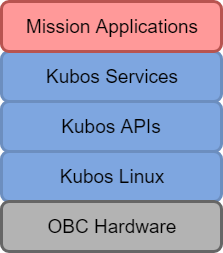
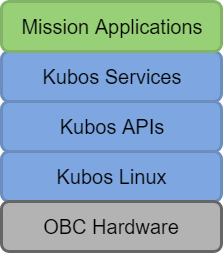
first pass of comments

diff --git a/docs/architecture-overview.rst b/docs/architecture-overview.rst
@@ -1,7 +1,7 @@
 KubOS Architecture Overview
 ===========================
 
-The KubOS system is designed to take care of every aspect of the satellite flight software. From the board up, it has every component you need to complete a mission. 
+The KubOS system is designed to take care of every aspect of the satellite's flight software.  
 
 
 The KubOS Stack
@@ -14,27 +14,35 @@ The KubOS Stack
 OBC (On Board Computer)
 ~~~~~~~~~~~~~~~~~~~~~~~
 
-Starting from the bottom, the OBC is up to you, as long as it is in our supported list. The current list of supported OBCs can be found :doc:`here <index>`. We are also continually working to support new platforms, so make sure you talk to us if your OBC is not included! 
+Starting from the bottom, the OBC is up to you, as long as it is in our supported list. The current list of supported OBCs can be found :doc:`on our main docs page <index>`. We are also continually working to support new platforms, so make sure you `talk to us <https://slack.kubos.com/>`__ if your OBC is not included! 
 
 Kubos Linux
 ~~~~~~~~~~~
 
-Kubos Linux is Kubos's Linux build (pretty self explanatory). If you want more information on how it works, what's included, etc, Check it out :doc:`here <os-docs/index>`. 
+Kubos Linux is Kubos's Linux distro. 
+
+- :doc:`Kubos Linux docs <os-docs/index>`. 
 
 Kubos APIs
 ~~~~~~~~~~
 
-There are several Kubos APIs for accomplishing a variety of tasks within Kubos Linux, but the main definition is that they are all statically linked libraries. Anything that behaves this way is considered an API, regardless of what hardware is it interacting with. For example, there are APIs for UART and I2C communication, as well as interaction with specific hardware such as the ISIS iMTQ. You can get more information about what APIs are available and what they do later in this document and :doc:`here <apis/index>`. 
+Kubos offers a library of APIs to simplify the process of writing mission applications and services. It includes software abstractions for communication protocols, like UART and I2C, as well as hardware abstractions for devices like the `ISIS iMTQ <https://www.isispace.nl/product/isis-magnetorquer-board/>`__
+
+- :doc:`Kubos API Documenation <apis/index>\`
 
 Kubos Services
 ~~~~~~~~~~~~~~
 
-The last Kubos portion of the stack is the Kubos Services. These are defined as any persistent process that is used to interact with the satellite. Services rarely make decisions, but will allow the user to accomplish typical Flight Software tasks such as telemetry storage, file management, shell access, hardware interaction, etc. More information about the scope of services can be found later in this document and :doc:`here <services/index>`. 
+Kubos services are defined as any persistent process that is used to interact with the satellite. Services rarely make decisions, but will allow the user to accomplish typical flight software tasks such as telemetry storage, file management, shell access, hardware interaction, etc. 
+
+- :doc:`Kubos Services <services/index>`. 
 
 Mission Applications
 ~~~~~~~~~~~~~~~~~~~~
 
-The final portion of the KubOS system is the Mission Applications. These applications are anything that governs the behavior of the satellite. Some common examples are deployment, housekeeping, and telemetry beaconing. Basically anything that you want the satellite to do autonomously goes into this category. More information on Mission Applications can be found later in this document and :doc:`here <applications/index>`. 
+TMission Applications are anything that governs the behavior of the satellite. Some common examples are deployment, housekeeping, and telemetry beaconing. Basically anything that you want the satellite to do autonomously goes into this category.
+
+- :doc:`Mission Applications <what-is-an-application>`. 
 
 
 Typical Mission Architecture
@@ -43,7 +51,7 @@ Typical Mission Architecture
 .. figure:: images/mission_diagram.png
     :align: center
 
-In the above diagram, everything in blue is typically Kubos-developed, while everything in green would be mission code and written by the user for their specific mission and payload. 
+In the above diagram, everything in blue is typically developed by Kubos, while everything in green would be mission code and written by the user for their specific mission and payload. 
 
 Communication
 ~~~~~~~~~~~~~
@@ -58,24 +66,31 @@ Gateways are any and all communication routes to the satellite. This ranges from
 Communication Service
 ^^^^^^^^^^^^^^^^^^^^^
 
-The Communication Service is what integrates the Gateway (and the API developed for it) to talk to the Mission Operates Center, Major Tom. For more information on how it operates, refer to the documentation :doc:`here <services/communication-service>`. 
+The communication service is what integrates the gateway (and the API developed for it) to talk to the mission operation center, Major Tom. 
+
+ - :doc:`here <services/communication-service>`. 
 
 Hardware Integration
 ~~~~~~~~~~~~~~~~~~~~
 
-For a list of the hardware currently supported by KubOS, look :doc:`here <index>`. 
+The hardware that is currently supported by KubOS is listed on the :doc:`main docs page <index>`. 
 
-Supported hardware is hardware that has both an API and an associated service. This architecture allows us to integrate hardware from several different vendors while keeping the application layer mostly hardware independent. Any supported hardware configuration can be used without changing mission application code.
+Supported hardware (other than OBCs) is hardware that has both an API and an associated service. 
 
 Hardware Services
 ^^^^^^^^^^^^^^^^^
 
-Hardware Services are GraphQL Server endpoints that take in Queries and Mutations and exercise the Hardware API to complete them. More information on Hardware Services can be found :doc:`here <services/hardware-services>`, and more information on GraphQL can be found :doc:`here <services/graphql>`. 
+Hardware services are GraphQL server endpoints that take in queries and mutations and exercise the hardware API to complete them. 
+
+ - :doc:`Hardware Services <services/hardware-services>`
+ - :doc:`GraphQL <services/graphql>`. 
 
 Hardware APIs
 ^^^^^^^^^^^^^
 
-Hardware APIs are a 2 tier system. The lower tier is specific to the exact piece of hardware and it's configuration, and must be written for every piece of hardware integrated. The upper tier accesses the lower tier, and is accessed by the associated Hardware Services. This upper tier is mostly portable between different units of similar purpose (eg, different brands of battery or ADCS), but sometimes must be augmented. More detailed descriptions of the different layers and current supported hardware APIs can be found :doc:`here <apis/index>`. 
+Hardware APIs are a two-tier system. The lower tier is specific to the exact piece of hardware and its configuration, and must be written for every piece of hardware integrated. The upper tier accesses the lower tier, and is accessed by the associated Hardware Services. This upper tier is mostly portable between different units of similar purpose (e.g., different brands of battery or ADCS), but sometimes must be augmented. 
+
+ - :doc:`Hardware APIs <apis/index>`. 
 
 Core Services
 ~~~~~~~~~~~~~
@@ -85,14 +100,30 @@ The Core Services are all the services that provide critical Flight Software cap
 Mission Specific Code
 ~~~~~~~~~~~~~~~~~~~~~
 
-If you're mostly concerned with "What do I actually need to develop?" this section is for you. Things that have to be written or changed no matter what are the Payload Service and the Mission Applications. These are highlighted in green in the mission diagram above. 
+Mission specific code is highlighted in green in the above diagram and refers to anything which is specific to a particular mission. This includes things like the payload service and mission applications. 
 
 Payload Service
 ^^^^^^^^^^^^^^^
 
-It is recommended to integrate a payload in the same way as the rest of the bus hardware. An example of a Payload Service can be found :doc:`here <services/example-payload-service>`. That being said, the Payload Service is custom for the mission, and can be accomplished any way the payload developer sees fit. The only hard requirement is that it can send/receive IP communication to connect with the rest of the services.  
+Payload services should be modeled after hardware services as much as possible, and the given example reflects that. That being said, the Payload Service is custom for the mission, and can be accomplished any way the payload developer sees fit. 
+
+ - :doc:`Example Payload Service <services/example-payload-service>`
 
 Mission Applications
 ^^^^^^^^^^^^^^^^^^^^
 
-The Mission Applications, as previously discussed, handle all the onboard decision making. They are monitoring the battery to make sure the proper systems get turned off when it's low, they handle abort procedures when an operation encounters an error, they handle what telemetry gets beaconed, how often, and where it goes, etc. These are, by nature, mission specific, but some of them can be largely reused due to the abstract nature of the hardware integration, such as the housekeeping or telemetry logging applications. These are typically written or adapted by the user. More information, requirements, examples, and formatting for these can be found :doc:`here <applications/index>`.
+The Mission Applications, as previously discussed, handle all the onboard decision making. These are, by nature, mission specific, but some of them can be largely reused due to the abstract nature of the hardware integration. These are typically written or adapted by the user. 
+
+ - :doc:`Mission Applications <what-is-a-mission-application>`.
+
+
+Available Languages in KubOS
+----------------------------
+
+The primary languages used in KubOS are Rust, Python, and C. 
+
+ - Rust is the primary language for the Services. 
+ - Python is used for Mission Applications and some Services. 
+ - C is everything else. 
+
+Each language can be used to create projects, services, and applications within KubOS. Other languages can also be easily supported, make sure to `talk to us <https://slack.kubos.com/>`__ if there is another option you'd like to use!

diff --git a/docs/services/graphql.rst b/docs/services/graphql.rst
@@ -7,25 +7,35 @@ GraphQL is a query language used to simplify commanding and telemetry gathering 
 What uses GraphQL? 
 ------------------
 
-All Hardware Services are GraphQL endpoints where: 
+All :doc:`Hardware Services <hardware-services>` are GraphQL endpoints where: 
 
  - mutations   = hardware commands
  - queries     = telemetry requests
 
-Other services, such as the Telemetry Database Service also use GraphQL as their command and telemetry request language. 
+Other services, such as the Telemetry Database Service, also use GraphQL as their command and telemetry request language. 
 
 All responses to GraphQL transactions are in JSON format. 
 
-Why use a query language?
+Why Use a Query Language?
 -------------------------
 
-Using a human readable query language makes it obvious exactly what the satellite is going to do. There is no analyzing hex output or parsing bits to understand that the command is going to do exactly what I want it to. 
+Using a human readable query language makes it obvious exactly what the satellite is going to do, removing the need to analyze hex output or parse bits, which can obfuscate system operations. 
 
 Why GraphQL?
 ------------
 
 GraphQL gives the user more control over the endpoint, rather than dictating what every interaction entails. 
 
-For example, say a mission application needs to quickly get the current status of a single power port on a module to check if a payload is powered. For a ReST endpoint, a separate GET would be required to be availabe with just that single telemetry item. Now say there are 15 different power ports, and those assignments can change depending on the payload configuration. For each port, the endpoint would have to change to accommodate the individual request, adding a new request for any subset of telemetry they want retrieved. If a combonation of 2 or more is required, it would have to be done in separate transactions. With GraphQL, it's only a single query. The mission application is simplified to only ever be a single query and the endpoint doesn't have to add queries to accommodate each change in configuration.
+For example, say a mission application needs to quickly get the current status of a single power port on a module to check if a payload is powered. For a ReST endpoint, a separate GET would be required to be availabe with just that single telemetry item. Now say there are 15 different power ports, and those assignments can change depending on the payload configuration. 
 
-Also, it is also already supported in several languages, speeding up development substantially. 
+ - REST GET
+
+For each port, the endpoint would have to change to accommodate the individual request, adding a new request for any subset of telemetry they want retrieved. If a combination of 2 or more is required, it would have to be done in separate transactions. 
+
+ - REST GET 1
+ - REST GET 2
+ - REST GET 3
+
+With GraphQL, it's only a single query. The mission application is simplified to only ever be a single query and the endpoint doesn't have to add queries to accommodate each change in configuration.
+
+ - GraphQL query

diff --git a/docs/services/hardware-services.rst b/docs/services/hardware-services.rst
@@ -1,25 +1,30 @@
 Hardware Services
 =================
 
-Hardware Services are GraphQL Server endpoints that take in Queries and Mutations and exercise the Hardware API to complete them. 
+Hardware services are GraphQL server endpoints that take in queries and mutations and exercise the hardware API to complete them. 
 
-It is highly recommended that you first read about GraphQL :doc:`here <graphql>`.
+It is highly recommended that you first read about GraphQL:
 
-Hardware Services function mostly as a pass through to the API, managing control of the resource. Each Hardware Service has only a single worker, so the hardware will not be damaged or report an incorrect state due to simultaneous conflicting transactions. 
+ - :doc:`GraphQL <graphql>`.
+
+Hardware Services function mostly as a passthrough to the API, managing control of the resource. Each Hardware Service has only a single worker thread, so the hardware will not be damaged or report an incorrect state due to simultaneous conflicting transactions. 
+
 
 Queries
 -------
 
 Queries are telemetry requests. Usually (if the hardware has the capability), when a Query is submitted, the Hardware Service retrieves the live data from the hardware component and completes the transaction, returning it in a JSON format. 
+
 Mutations
 ---------
 
 Mutations are hardware commands. Submitting a mutation changes the state of the hardware. 
 
+
 Service Types
 -------------
 
-There are a few general types that most satellite bus hardware will fall into. Each of these has a Hardware Service that is generalized, but specific to the type of hardware:
+There are a few common categories of satellite bus hadware. Each of these has a Hardware Service that is generalized, but specific to the type of hardware:
 
  - Power Systems (EPS and/or Battery)
  - Attitude Determination and Control Systems (ADCS)

diff --git a/docs/index.rst b/docs/index.rst
@@ -7,13 +7,17 @@ Overview
 
 :doc:`dev-docs/changelog`
 
-The Kubos platform provides satellite developers the tools and libraries necessary to quickly bring up space ready software. We leverage multiple existing open source projects, along with our own custom framework and SDK. 
+The KubOS platform provides satellite developers the tools and libraries necessary to quickly bring up space ready software. We leverage multiple existing open source projects, along with our own custom framework and SDK. 
 
-New to KubOS? Want to know what it is? Check out our Architecture guide to give an overview of how KubOS works and what it provides:
+New to KubOS? Want to know what it is? Check out our Architecture guide for an overview of how KubOS works and what it provides:
 
- - :doc:`KubOS Architecture Overview <architecture/architecture-overview>`
+ - :doc:`KubOS Architecture Overview <architecture-overview>`
 
-Trying to integration a Payload or create your mission code? Check out our examples: 
+Getting set up with KubOS for the first time? Check out our SDK and try your own project:
+
+ - :doc:`First Time Users <first-time-users>`
+
+Trying to integrate a Payload or create your mission code? Check out our examples: 
 
  - :doc:`Example Payload Service <services/example-payload-service>`
  - :doc:`Example Mission Application <applications/example-mission-application>`
@@ -40,11 +44,12 @@ Boards Currently Supported by Kubos
 .. toctree::
     :hidden:
     
+    First Time Users <first-time-users>
     KubOS Architecture <architecture-overview>
     Kubos Services <services/index>
     Kubos Applications <applications/index>
     Kubos APIs <apis/index>
-    KubOS Linux <linux-docs/index>
+    Kubos Linux <os-docs/index>
     Kubos SDK <sdk-docs/index>
     Installation Docs <installation-docs/index>
     Developer Docs <dev-docs/index>

diff --git a/docs/sdk-docs/index.rst b/docs/sdk-docs/index.rst
@@ -51,17 +51,17 @@ to build Kubos projects:
 This documentation section contains the various guides related to using the Kubos SDK:
 
     - :doc:`../installation-docs/sdk-installing` - How to install the SDK onto your host machine
+    - :doc:`first-linux-project` - How to build your first Linux project with the SDK
     - :doc:`sdk-cheatsheet` - A quick guide for the most common SDK tasks
     - :doc:`sdk-reference` - The full list of Kubos CLI commands
     - :doc:`sdk-project-config` - How to configure a Kubos project's settings, dependencies, and underlying hardware information
     - :doc:`windows-dev-environment` - How to develop Kubos projects from a Windows-based host computer
     - :doc:`sdk-upgrading` - How to upgrade to the latest version of the Kubos SDK
-    - :doc:`first-linux-project` - How to build your first linux project with the SDK
 
 .. toctree::
     :hidden:
     
-    Creating Your First KubOS Linux Project <first-linux-project>
+    Creating Your First Kubos Linux Project <first-linux-project>
     Installing the Kubos SDK <../installation-docs/sdk-installing>
     Kubos SDK Cheat Sheet <sdk-cheatsheet>
     Kubos CLI Command Reference <sdk-reference>

diff --git a/docs/services/index.rst b/docs/services/index.rst
@@ -1,20 +1,14 @@
 Kubos Services
 ==============
 
-Kubos Services are defined as any persistent process that is used to interact with the satellite. Services rarely make decisions, but will allow the user to accomplish typical Flight Software tasks such as telemetry storage, file management, shell access, hardware interaction, etc. 
-
-There are 3 main types of services:
-
- - :doc:`Hardware Services <hardware-services>`
- - :doc:`Core Services <core-services>`
- - :doc:`Payload Services <example-payload-service>`
-
-Refer to each specific type to understand more about what they do.
+Kubos Services are defined as any persistent process that is used to interact with the satellite. Services rarely make decisions, but will allow the user to accomplish typical Flight Software tasks such as telemetry storage, file management, shell access, hardware interaction.
 
 .. toctree::
     :maxdepth: 1
+    :hidden:
     
     Hardware Services <hardware-services>
     Payload Service with Example <example-payload-service>
     Core Services <core-services>
+    GraphQL <graphql>
     

diff --git a/docs/what-is-a-mission-application.rst b/docs/what-is-a-mission-application.rst
@@ -1,0 +1,29 @@
+What is a Mission Application?
+==============================
+
+Mission Applications include anything that makes decisions or governs autonomy on the satellite, as well an any other applications designed to address mission-specific concerns. 
+
+Applications can be used to accomplish anything on the system, and are only limited by the computational or hardware capabilities of the spacecraft.
+
+Autonomy Applications
+---------------------
+
+Applications can be used to enable the satellite to act autonomously. Some basic versions of this are:
+
+- Querying hardware services and storing telemetry
+- Creating and broadcasting telemetry beacons that change depending on satellite state
+- Controlling deployment procedures
+
+Mission Operation Applications
+------------------------------
+
+Applications are also used to accomplish specific mission goals. Some possible examples are:
+
+- Image analysis 
+- Payload operation 
+- Payload monitoring
+
+Example Mission Applications
+----------------------------
+
+An Example Mission Application is forthcoming. 

diff --git a/docs/dev-docs/kubos-standards.rst b/docs/dev-docs/kubos-standards.rst
@@ -26,7 +26,7 @@ Component Names
 Components within Kubos breakdown as follows:
 
 - API - a statically linked library
-- Service - A persistent process that is used to interact with the system. These typically call APIs.
+- Service - A persistent process that is used to interact with the system. These typically utilize APIs.
 - Application - Makes decisions and uses the services. 
 
 Components added to the system should be referred to/labeled accordingly. See the :doc:`Architecture Overview <../architecture-overview>` document for more information on each component's roll. 
